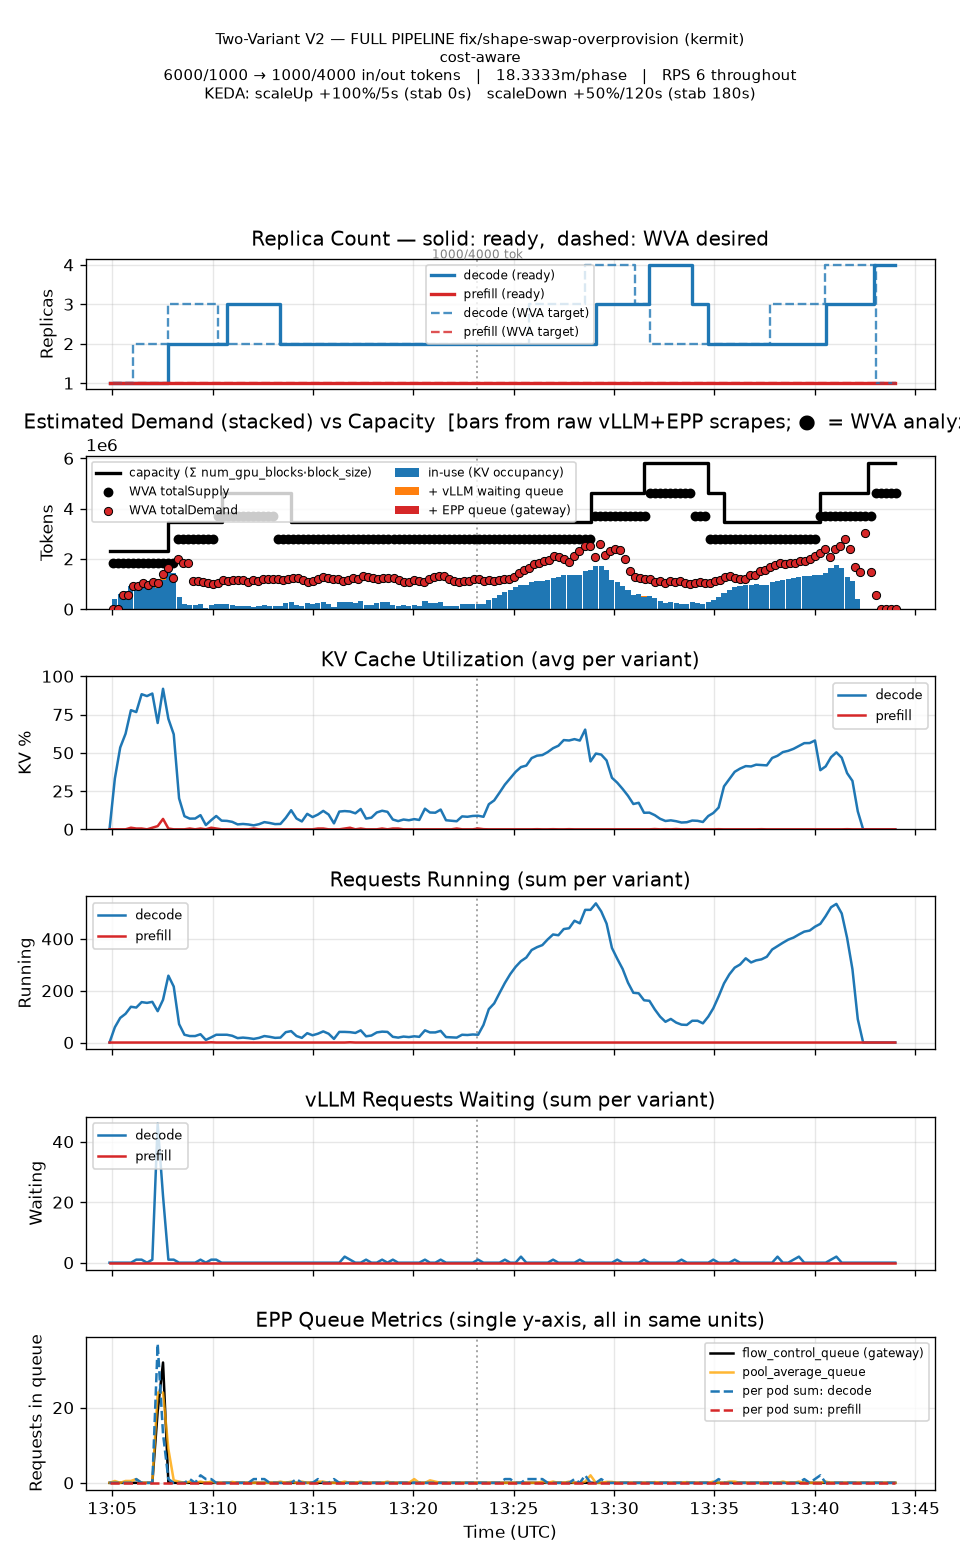
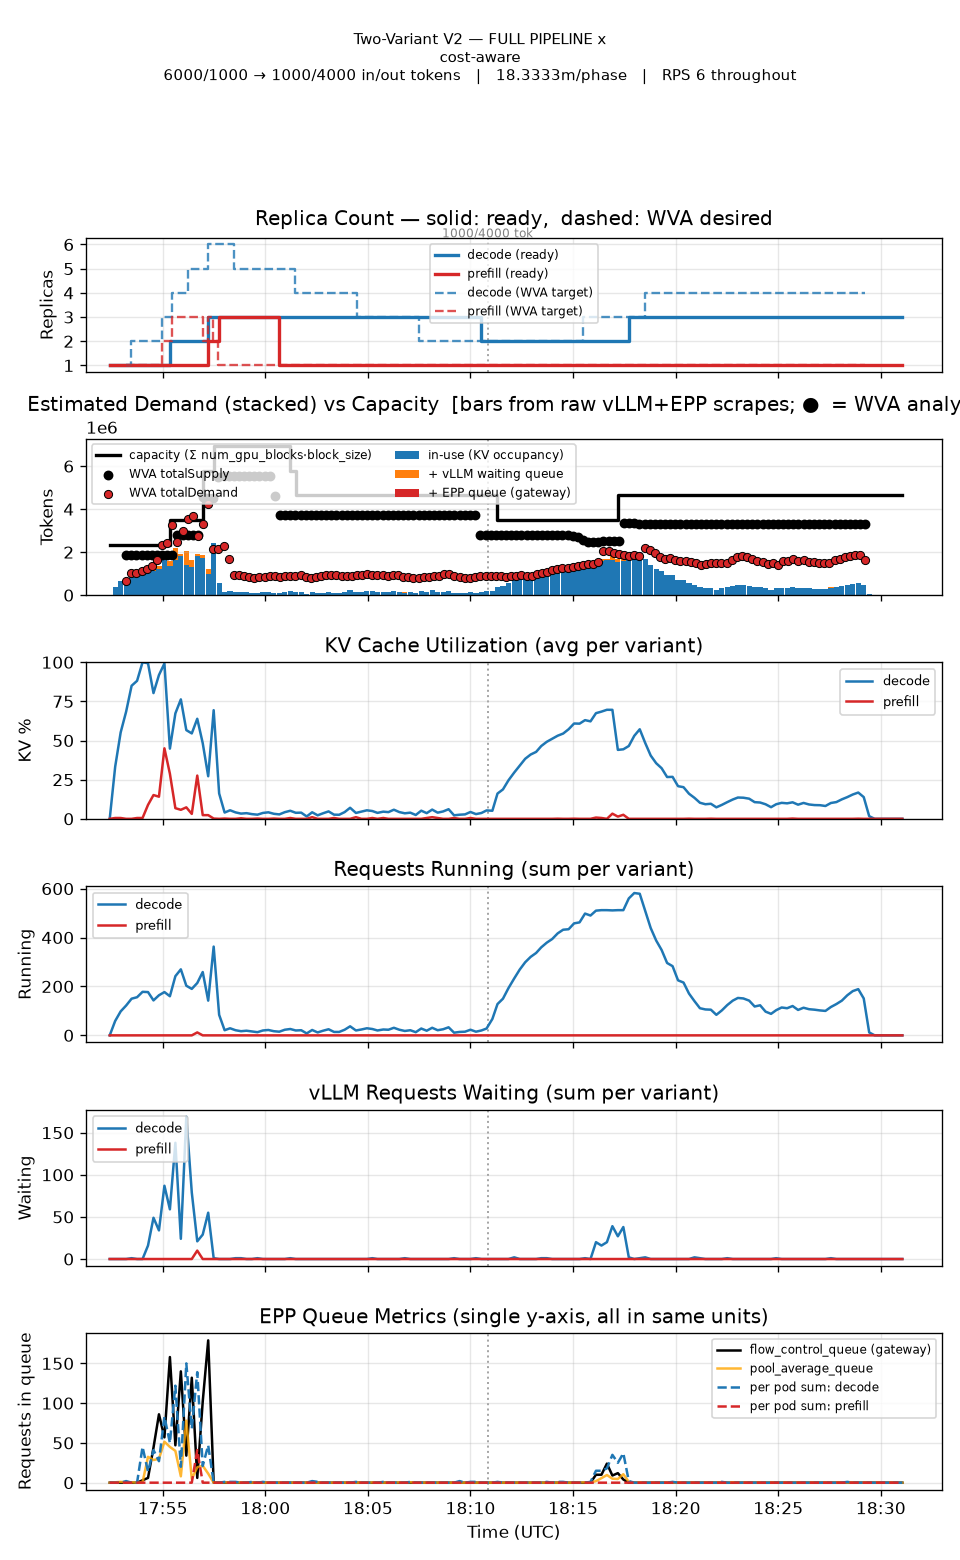
docs: the phase-2 investigation, the three re-runs, and the P/D path on the current code
docs/proposals/backlog-sizing.md gets the cycle-by-cycle reading of the
second phase that the earlier explanation got wrong (mu was never re-learned
because nothing queued; every scale-up was the arrival floor's), the three
same-day re-runs side by side -- PR #62's image, the split buckets without a
fallback (3 -> 1 on the shape change), and this branch (2 -> 3 -> 4, held) --
with p95 TTFT per five-minute window from the engines' histograms, and the
trade the last column makes: one learning saturation per new shape.

The P/D well-lit path shows the run on this tree: the trajectory, the tail
by window rather than one p95 (8.4 s in the first ramp, 4.8 s at the shape
change, under 0.2 s elsewhere), the graphs, and how to read the three
episodes. Its header names the remaining item as the residency charge on a
backlog. The floor guide records the borrow and turns its last claim from
arithmetic into three measured rows.

diff --git a/docs/well-lit-paths/pd-disaggregation/README.md b/docs/well-lit-paths/pd-disaggregation/README.md
@@ -2,10 +2,11 @@
 
 > **Experimental.** The scenario stands up and runs, WVA's role handling is
 > covered end to end, and the shape has a published benchmark (below). What is
-> still short: on a shape change within one output-length bucket the fleet
-> oscillates by two replicas (named under *Measured*), and there is no
-> P/D-specific steady-state e2e spec. Take it as a working recipe with one open
-> item, not a settled default.
+> still short: a backlog is sized as if it had to be resident at once, so the
+> first ramp and every new shape's first saturation over-order for a few
+> minutes (named under *Measured*), and there is no P/D-specific steady-state
+> e2e spec. Take it as a working recipe with one open item, not a settled
+> default.
 
 Prefill and decode have different shapes — prefill is compute-bound, decode is
 memory-bandwidth-bound — so llm-d can run them as separate deployments connected
@@ -130,48 +131,70 @@ causes it, so check `kubectl create deployment` works in your namespace first.
 
 The scenario, trace, policy and HPA behaviour above, on CoreWeave 8 x H200
 nodes (k1 = 929,894 tokens per decode replica), against the controller image
-built from this tree. Results directory:
-`results/guidellm-1789563884-wm9k0y_1` of the 2026-09-16 run; the graphs and
-tables are the ones `post_run_analyze.sh` writes.
+built from this tree, on 2026-09-16 (run `guidellm-1789581140-kb3q2v_1`).
+The graphs and tables are the ones `post_run_analyze.sh` writes.
 
 | | |
 |---|---|
-| decode replicas over the run | 1 → 2 → 3 → **2 (held through phase 1)** → 3 → 4 → 3 → 2 → 3 → 4 |
-| prefill replicas | 1 throughout |
-| ready replicas, both roles, mean / max | 3.32 / 5 |
-| TTFT p50 / p95 / p99 | 112 ms / 218 ms / 3.1 s |
-| ITL p50 / p95 | 12.2 / 21.2 ms |
-| request latency p50 / p95 | 17.0 / 80.1 s |
+| decode replicas ordered | 1 → 6 (first ramp) → 3 → 2 → 3 → 4, **held to the end** |
+| decode replicas Ready | at most 3: the cluster had no free GPUs for the rest |
+| prefill replicas | 1 → 3 (first ramp) → 1 |
+| ready replicas, both roles, mean / max | 3.78 / 6 |
+| TTFT p50 / p95 | 102 ms / 17.2 s |
+| ITL p50 / p95 | 6.3 / 23.5 ms |
+| request latency p50 / p95 | 19.7 / 91.2 s |
 | requests / errors | 13,288 / 0 |
-| GPU-minutes (mean replicas x run length) | 90.7 |
+
+Where the tail is, by five-minute window (p95 TTFT from the engines' own
+histograms): **8.4 s in minutes 0-5**, then 0.05-0.07 s for the rest of the
+first phase; **4.8 s in minutes 20-25**, then 0.04-0.17 s for the rest of the
+second. The two windows are the two saturations below; outside them the p95 is
+under a tenth of a second.
 
 ![pipeline: replicas, demand vs capacity, KV, running, waiting, EPP queue](shape-swap-rps6-pipeline.png)
 
 ![replica status over the run](shape-swap-rps6-replicas.png)
 
-How to read it. In the first phase the KV occupancy of the fleet is a fraction
-of one replica (the second panel, and 5-15% KV in the third) -- the reading
-that, taken alone, would size the fleet to one. The dashed target holds at two
-because the analyzer floors each role's demand at what the load requires in
-throughput: the arrival rate over the completion rate one replica sustained
-when it was last seen saturated (λ/μ = 6.2/4.87 ≈ 1.3 replicas' worth; the
-`throughput-demand-floor` line in the controller log carries the terms). Prefill
-holds at one because its own occupancy never justifies more and nothing else is
-charged to it. The one queue in the run is the 46-request blip at the start
-while the second decode replica boots.
+How to read it.
 
-What still moves: in the second phase the fleet goes 2 → 3 → 4 → 2 → 3 → 4.
-Both shapes share the `long` output-length bucket that keys the learned
-throughput, so the floor keeps holding the first shape's two replicas while
-the second needs three; occupancy then climbs, the arrival floor over-corrects
-to four, and the 50%/120s scale-down takes it back to two in one step. The fix
-is a finer key for μ; until it lands, expect that amplitude on a shape change
-within one bucket. The p50 ITL is what two replicas at a high batch cost; the
-p95 tail is what holding them buys.
+**The first ramp** (minutes 0-5). One decode replica serves 6 req/s until the
+second one is Ready, which took 140 s here; in that time its queue reached
+150 and the flow-control queue 180, and the analyzer -- which charges every
+queued request as KV that must be resident at once -- ordered six decode and
+three prefill replicas to drain it. Three decode replicas ever became Ready
+(the cluster was full), the queue was gone before any of them arrived, and
+the target came back down over the next ten minutes. How deep this ramp goes
+is set by the second replica's start time against the load; a run of the
+same trace an hour earlier, where it landed in 97 s, peaked at three with a
+0.4 s p95. Sizing a backlog by throughput rather than residency is the open
+item in [Sizing a backlog](../../proposals/backlog-sizing.md).
 
-The measurement that motivated the throughput floor, and the run it was
-compared against, are in [Sizing a backlog](../../proposals/backlog-sizing.md);
-the mechanism is in [the demand floors](../../developer-guide/saturation-demand-floor.md).
+**The first phase, steady** (minutes 5-18). Occupancy is a fraction of one
+replica (5-15% KV) -- the reading that, taken alone, would size the fleet to
+one. The dashed target holds at two because the analyzer floors each role's
+demand at what the load requires in throughput: the arrival rate over the
+completion rate one replica sustained when it was last seen saturated
+(`throughput-demand-floor` in the controller log carries the terms). Prefill
+holds at one because nothing is charged to it.
+
+**The shape change** (minute 18 on). The 4000-token shape has never been
+seen saturated, so the floor borrows the 1000-token shape's throughput and
+holds two, which is one short for this shape. The two replicas fall behind by
+growing their batch rather than a queue -- 75 to 229 against an engine
+ceiling of 256, ITL 6 to 20 ms -- until the batch reaches the ceiling, a queue
+forms (the blip at 18:16), and the replicas' own completion rate for this
+shape, 2.97 req/s, is recorded. From there the floor is 6 / 2.97 = two
+replicas' worth, occupancy plus the queue order a third and then a fourth
+(the ramp again, smaller), and the fleet **holds** for the remaining eleven
+minutes. That one saturation is the 4.8 s window above: the price of learning
+a new shape's throughput by reaching it, paid once per shape per bucket.
+
+What still moves: the ramp on every saturation, first or new-shape, is the
+backlog charged as residency; and a shape is learned only by saturating on
+it once. Both are named in the proposal doc. What no longer moves: the fleet
+does not fall below what the load needs once a shape is known, and a fleet
+that has just caught up is not scaled down for looking idle. The mechanism
+is in [the throughput floor](../../developer-guide/saturation-demand-floor.md).
 
 ## How it is tested
 

diff --git a/docs/proposals/backlog-sizing.md b/docs/proposals/backlog-sizing.md
@@ -374,10 +374,55 @@ What was done (branch `fix/phase2-oscillation`):
   3000 / 6000), so that when phase 2 does saturate its first `mu` is not
   masked by phase 1's max in a shared window.
 
-What the log implies for the re-run, before it is run: at two replicas
-occupancy keeps climbing, the batch reaches 256, `waiting` crosses 5, P1
-records `mu` ~ 2.75-3.0 in the `xxlong` bucket, and occupancy plus the queue
-order the third replica; at three, the floor is 6/2.9 x 930k = 1.92M and
-spare is 2.79M - 1.92M/0.7 = 0.05M, less than a replica: **held at 3.** The
-cost is the two minutes at two replicas with W near 80s before the queue
-forms, which is the price of scaling on saturation rather than on latency.
+- **A bucket with no reading borrows the nearest bucket's** until it has
+  its own. Found by the re-run of the two changes above without it (run
+  `guidellm-1789577844-0smu2m_1`): the new shape landed in an empty `xxlong`,
+  the floor vanished, and a three-replica fleet was sized to one from 400k
+  tokens of occupancy -- worse than the shared bucket it replaced. The
+  borrowed figure is wrong in a known direction (a shorter shape's mu holds
+  too few, which the fleet corrects by saturating once; a longer shape's
+  holds too many, which the cap bounds) and lasts until the first reading
+  of the bucket's own, which then takes over unmasked.
+
+### Measured, 2026-09-16, kermit
+
+Three runs of the same trace on the same day, same stack and HPA policy,
+same cluster; the second decode replica's start time against the load
+differed run to run (97 s, ~140 s, ~140 s), which sets how deep the first
+ramp goes and is not the code.
+
+```
+                       PR #62 image          split, no borrow       split + borrow + no
+                       (arrival floor)       (no arrival floor)     arrival floor
+                       wm9k0y_1              0smu2m_1               kb3q2v_1
+first ramp, decode     1 -> 3                1 -> 9 (3 Ready)       1 -> 6 (3 Ready)
+phase 1 steady         held 2                held 2                 held 2
+shape change           2->3->4->2->3->4      3 -> 1 (collapse),     2 -> 3 -> 4, HELD
+                       (arrival floor)       then 1 -> 5            (mu learned once)
+p95 TTFT, min 0-5      0.44 s                34 s                   8.4 s
+p95 TTFT, min 20-25    0.23 s                0.04 s                 4.8 s
+p95 TTFT, min 30-35    0.20 s                88.7 s                 0.04 s
+```
+
+The cycle-by-cycle of the last run's second phase: target 2 from 18:10
+(borrowed mu 6.5, the first ramp's deeper saturation this time); the two
+replicas' batch grows with nothing waiting; occupancy crosses the threshold
+and orders a third at 18:15:29; the batch reaches the ceiling, `waiting`
+reads 16-18, and P1 records `mu = 2.97` for `xxlong` at 18:17:44 together
+with the shape's own k2 (806k, against 1.16M for the 1000-token shape); the
+saturation moment's occupancy plus queue orders a fourth at 18:18:29 (the
+ramp, again -- the residency charge); and the target then holds until the
+load ends at 18:29. Three were Ready throughout; the fourth waited on a GPU
+the cluster did not have, so with a free cluster the settle would have been
+4 -> 3 and held (spare at four is 0.9 of a replica, at three 0.13).
+
+What the last column costs against the first: one saturation per new shape,
+4.8 s p95 for one five-minute window, to learn the shape's throughput by
+reaching it. What it buys: a fleet that does not fall below what a known
+shape needs and is not scaled down for looking idle -- the first column's
+0.23 s came from a floor that ordered replicas early on an inflated service
+time and released them again, five replicas' worth of churn per ten minutes.
+Learning a shape's throughput before its queue forms (from the batch
+approaching the engine's ceiling, or from ITL growth) would remove the
+episode and is the natural next step; it needs `num_requests_running` per
+replica, which the collector does not read today.

diff --git a/docs/developer-guide/saturation-demand-floor.md b/docs/developer-guide/saturation-demand-floor.md
@@ -72,7 +72,12 @@ Properties, each with a spec in `throughput_floor_test.go`:
   shapes sharing a bucket share a window whose max is the shorter shape's --
   which held a fleet at the shorter shape's size while the longer one was
   served. Measured on the shape-swap benchmark, where 1000 and 4000 tokens
-  shared one bucket; they no longer do.
+  shared one bucket; they no longer do. A bucket with no reading borrows the
+  nearest bucket's under the same key prefix until it has its own -- without
+  that, the first cycle of a new shape had no floor at all, and a
+  three-replica fleet was sized to one from 400k tokens of occupancy. The
+  per-replica log line names the bucket the figure came from
+  (`saturatedThroughputBucket`).
 
 A floor that binds logs `throughput-demand-floor` with `demandBeforeFloor`,
 `arrivalRate`, `saturatedThroughput`, `perReplicaCapacity`, `replicasImplied`
@@ -149,4 +154,6 @@ is a property of the load.
 | The throughput floor held two decode replicas through phase 1 | Measured, 2026-09-16 re-run (`throughput-demand-floor` at 13:12-13:25) |
 | Two replicas grew their batch 75 -> 229 with `waiting` <= 1 in phase 2 | Measured, same re-run, pod counters |
 | The retired floor ordered every phase-2 scale-up, at `W` 36-77s | Measured, same re-run, controller log |
-| Retiring it and splitting the buckets holds phase 2 at three replicas | Arithmetic on logged values; **not yet re-run** |
+| Splitting the buckets with no fallback loses the floor on a new shape (3 -> 1) | Measured, run `guidellm-1789577844-0smu2m_1` |
+| Retired floor + split buckets + borrow: phase 2 goes 2 -> 3 -> 4 and holds, `mu` = 2.97 learned at the one saturation | Measured, run `guidellm-1789581140-kb3q2v_1` |
+| The learning saturation costs one window at 4.8 s p95 TTFT | Measured, same run, engine histograms per 5-minute window |
